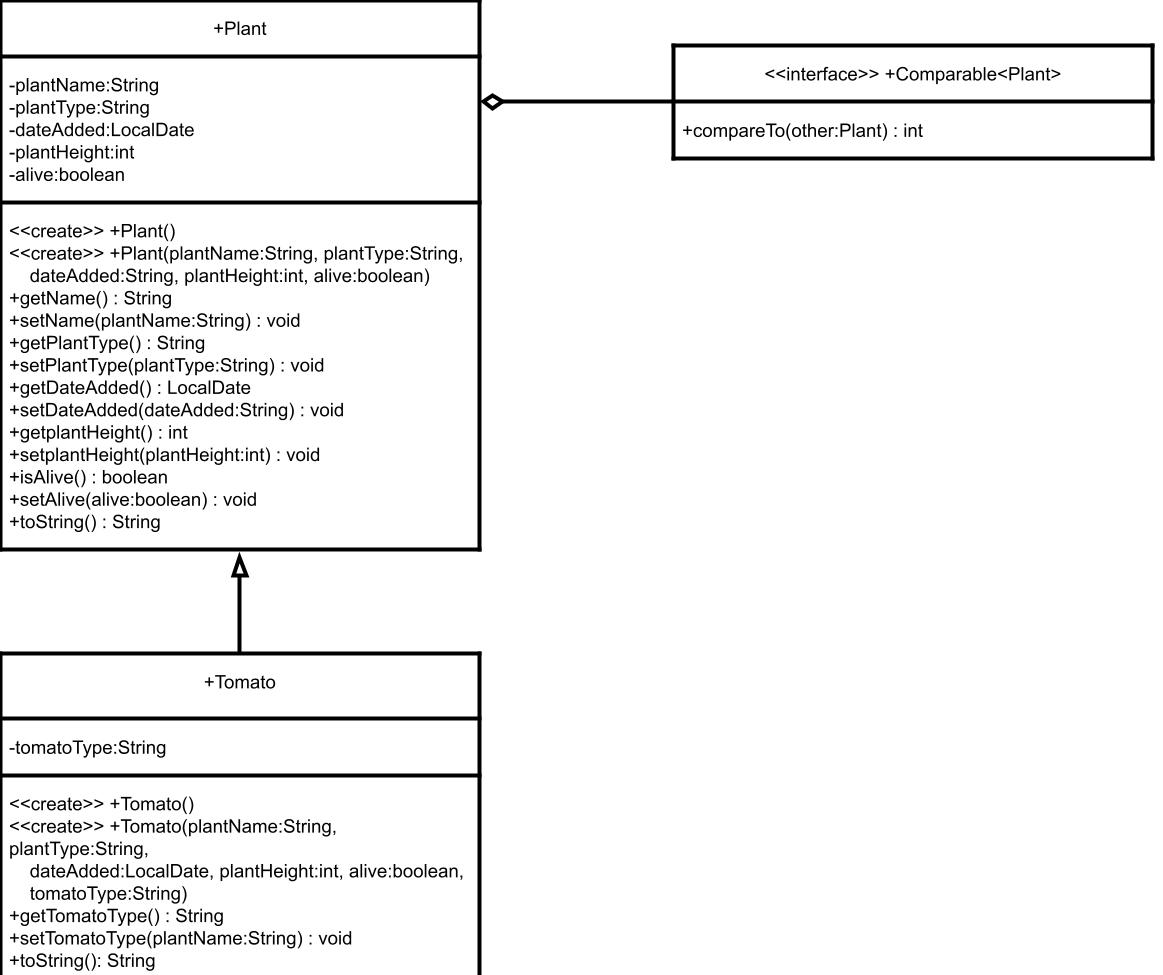
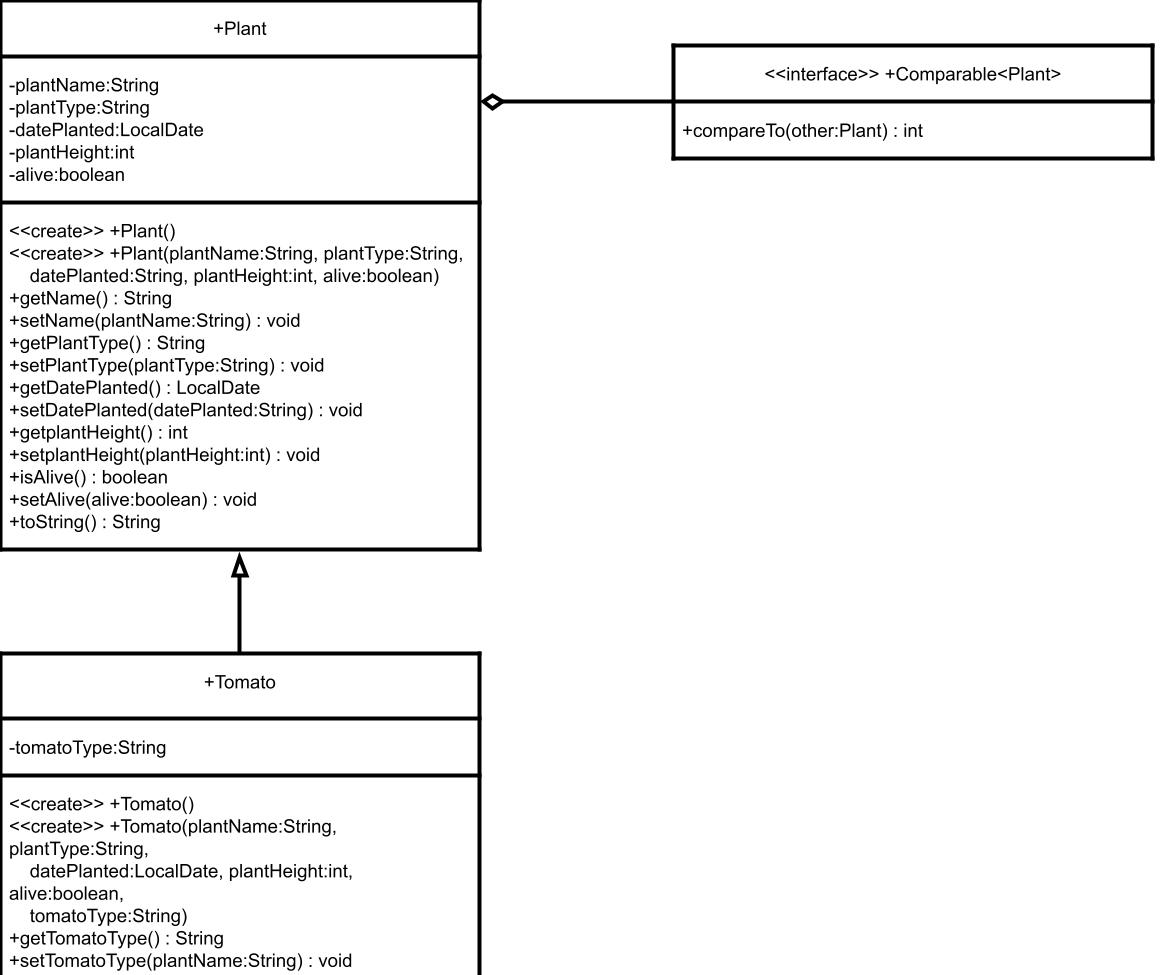
added classes, Plant and Helpers

diff --git a/Plant.java b/Plant.java
@@ -1,0 +1,43 @@
+package src;
+
+import java.time.LocalDate;
+
+
+public class Plant implements Comparable<Plant>{
+    //create instance variables
+    private String plantName;
+    private String plantType;
+    private LocalDate datePlanted;
+    private int plantHeight;
+    private boolean alive;
+
+
+    public Plant(){
+        this.plantName = "";
+        this.plantType = "";
+        this.datePlanted = LocalDate.now();
+        this.plantHeight = 0;
+        this.alive = true;
+    }
+
+    public Plant(String plantName, String plantType, String datePlanted, int plantHeight, boolean alive){
+        this.plantName = plantName;
+        this.plantType = plantType;
+        this.datePlanted = convertStrToDate(datePlanted);
+        this.plantHeight = plantHeight;
+        this.alive = alive;
+    }
+
+
+
+    public int compareTo(Plant o){
+        int result = this.plantName.compareToIgnoreCase(o.plantName);
+
+        if (result == 0) {
+            result = this.localDate.compareTo(o.localDate);
+        }
+        return result;
+    }
+
+
+}

diff --git a/Helpers.java b/Helpers.java
@@ -1,0 +1,24 @@
+import java.time.DateTimeException;
+import java.time.LocalDate;
+import java.time.format.DateTimeFormatter;
+
+public class Helpers {
+    
+
+    public static LocalDate convertStrToDate(String dateAdded){        
+        LocalDate userDate;
+        DateTimeFormatter formatterInput = DateTimeFormatter.ofPattern("yyyy-MM-dd");
+
+        try {            
+            userDate = LocalDate.parse(dateAdded, formatterInput);
+                        
+        } catch (DateTimeParseException e) {
+            userDate = LocalDate.now();
+        }
+
+        return userDate;
+
+    }
+
+    
+}
